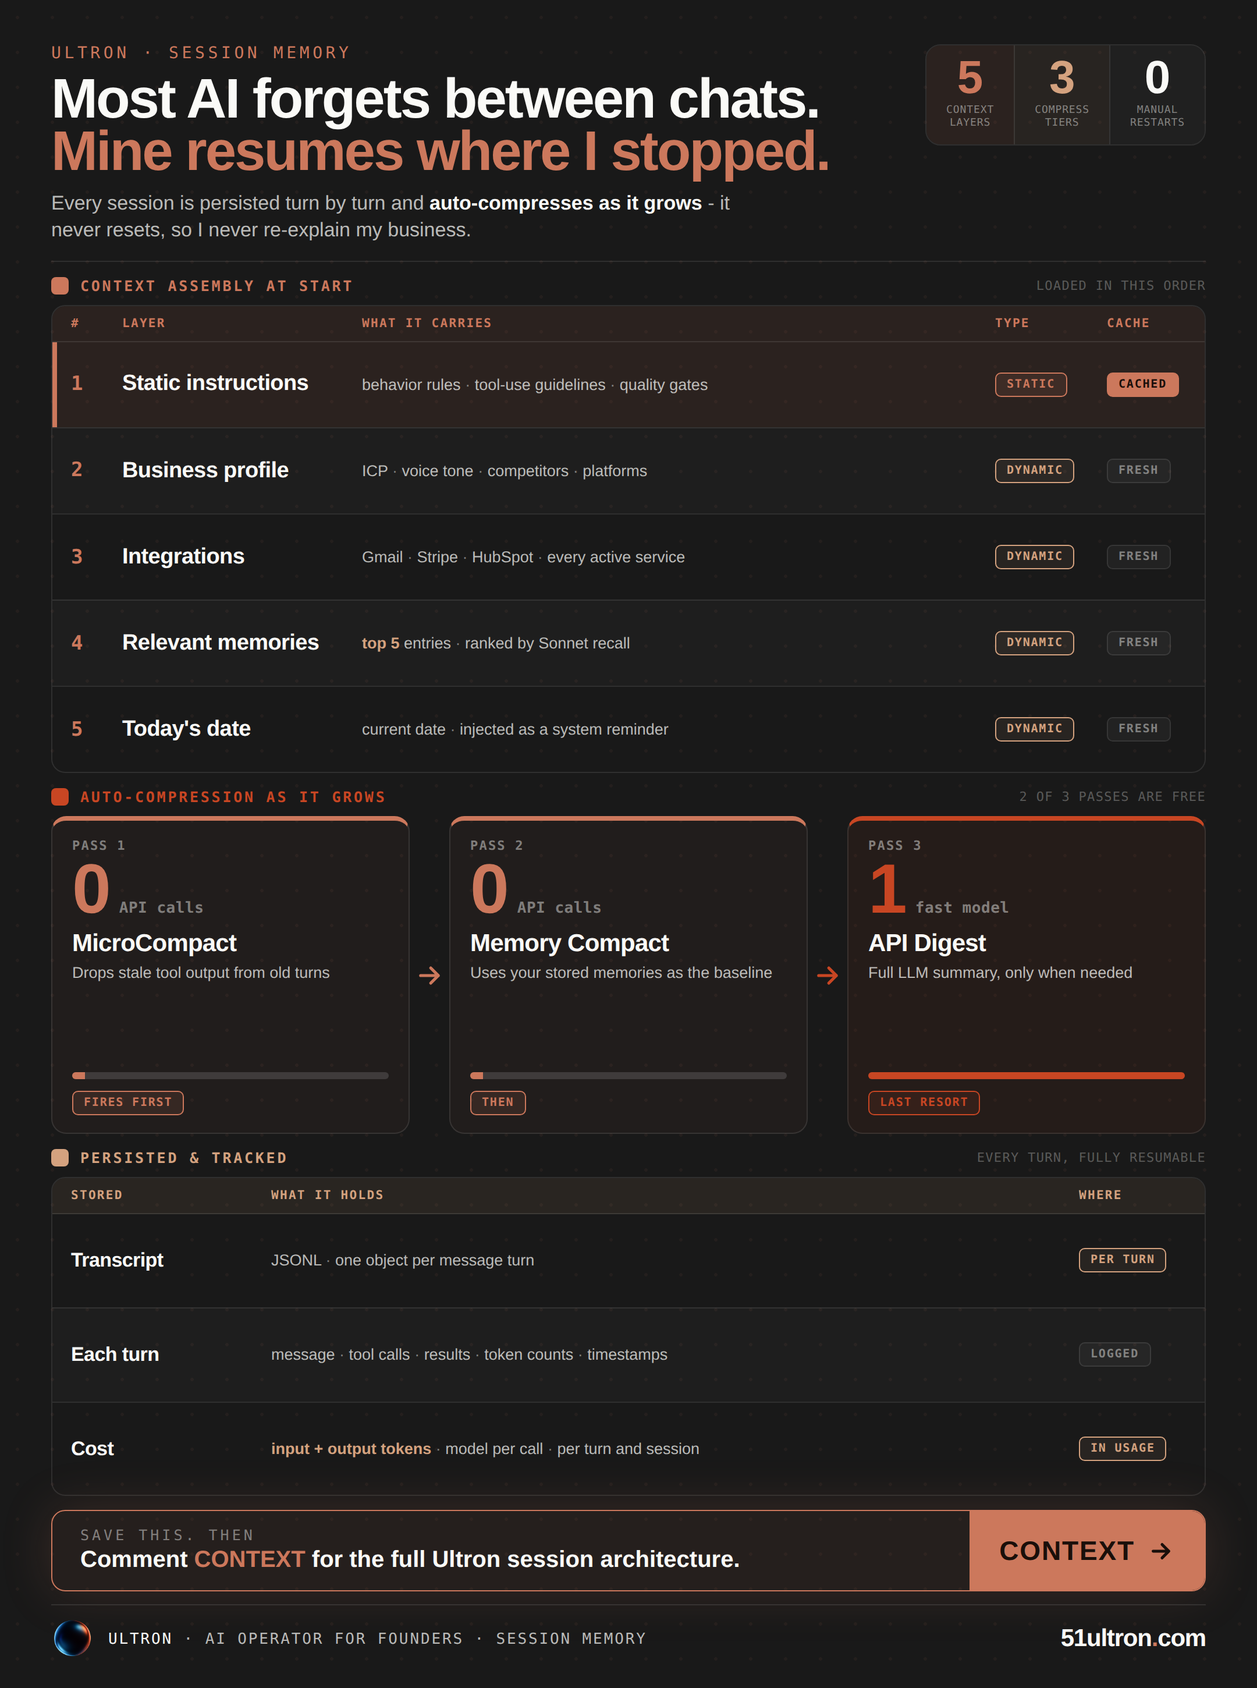
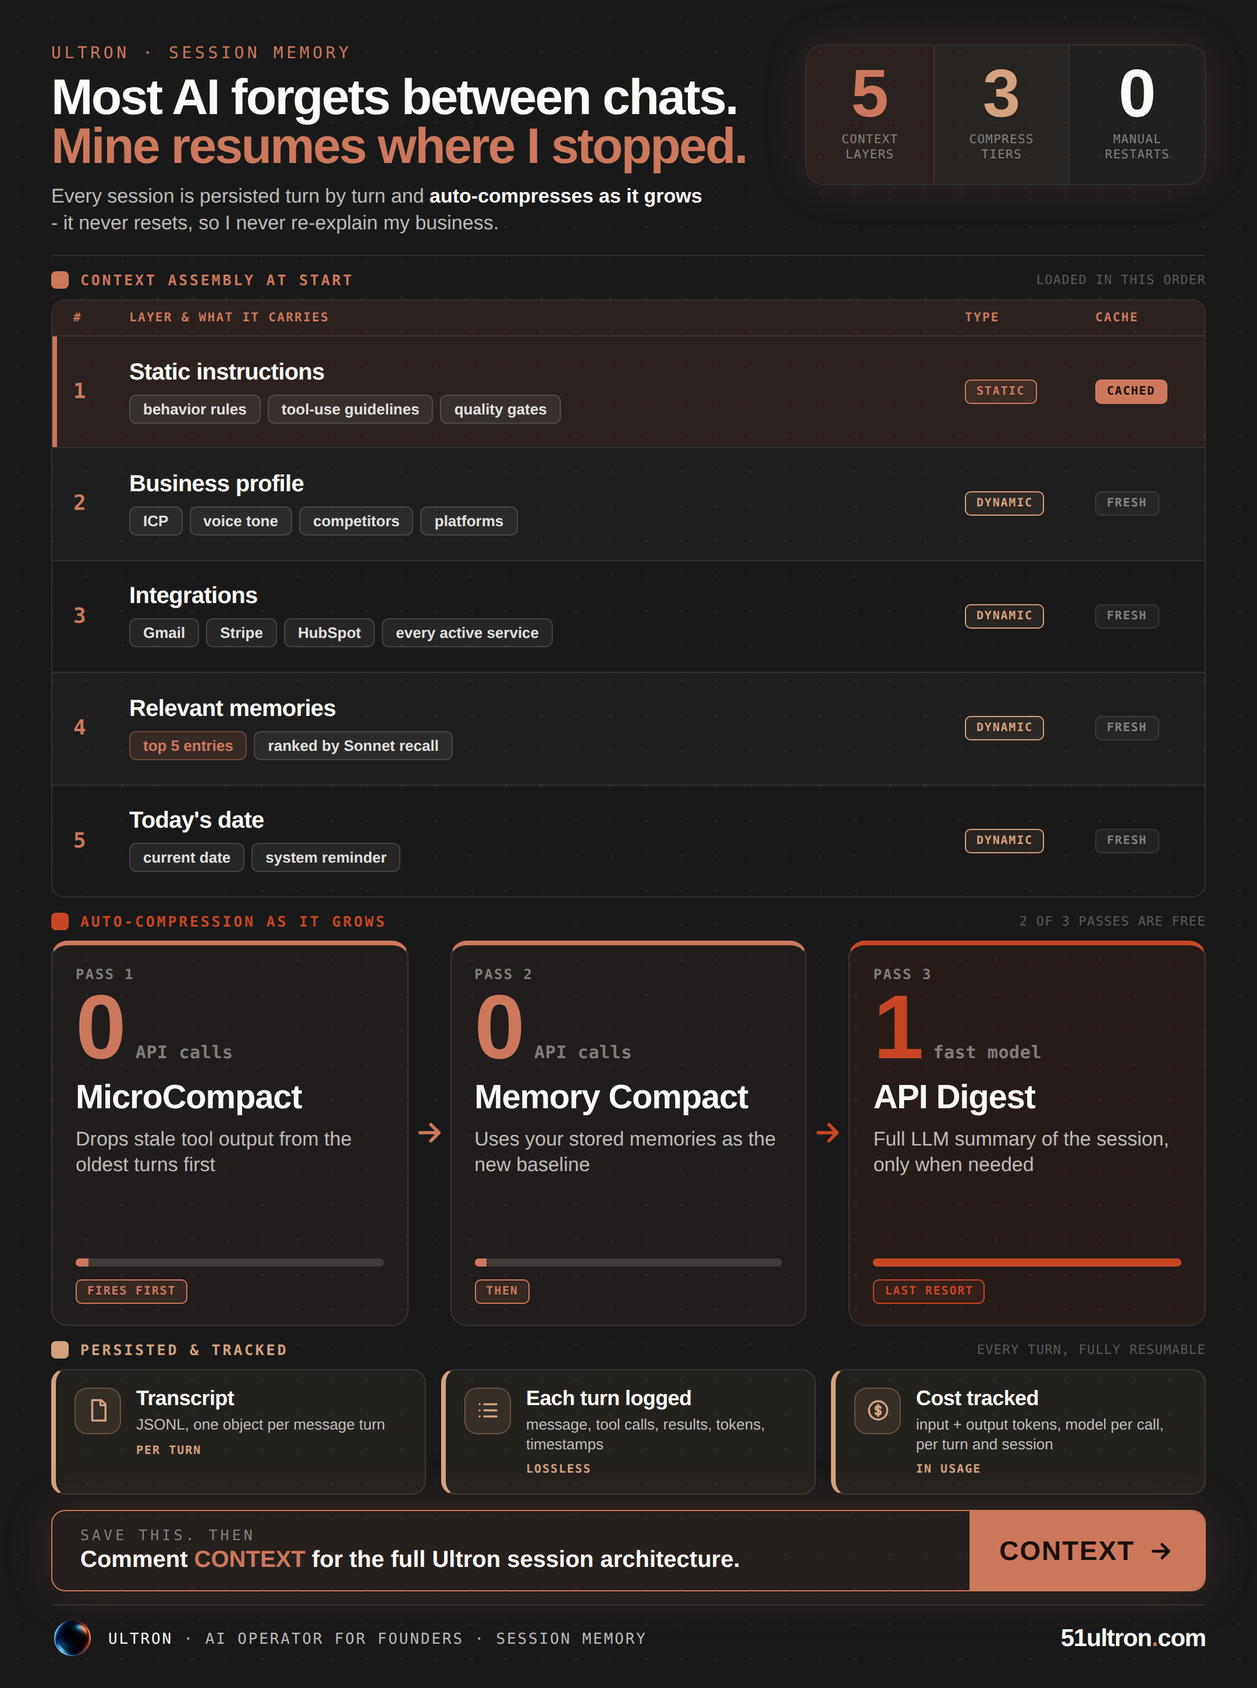
content: docs-10 LinkedIn - enlarge stat tile, carry as chips, bigger pipeline text, restyle table 3
Per feedback: top-right stat tile enlarged; 'what it carries' is now prominent
payload chips under each layer name (the column reads, not a footnote); the
compression cards use larger type (engine 29px, desc 17px, number 78px) to fill
the body; persistence is restyled as kraft icon-led cards, a different format
from the context table. Hook set to two clean lines.

diff --git a/content/docs-10-sessions-linkedin.html b/content/docs-10-sessions-linkedin.html
@@ -6,15 +6,15 @@ body{background:#0d0d0d;display:flex;justify-content:center;padding:24px 0;font-
 .frame::before{content:'';position:absolute;inset:0;pointer-events:none;z-index:0;background-image:radial-gradient(rgba(204,120,92,.06) 1.4px,transparent 1.5px);background-size:30px 30px;}
 .atm{position:absolute;inset:0;pointer-events:none;z-index:1;background:radial-gradient(ellipse 54% 24% at 90% -2%,rgba(204,120,92,.22) 0%,transparent 60%),radial-gradient(ellipse 48% 26% at 2% 102%,rgba(212,162,127,.12) 0%,transparent 60%);}
 .frame>*{position:relative;z-index:2;}
-.hero{flex-shrink:0;display:flex;align-items:flex-start;justify-content:space-between;gap:22px;padding-bottom:14px;border-bottom:1px solid var(--rule);}
+.hero{flex-shrink:0;display:flex;align-items:flex-start;justify-content:space-between;gap:22px;padding-bottom:15px;border-bottom:1px solid var(--rule);}
 .eye{font-family:'DM Mono',monospace;font-size:14px;font-weight:500;letter-spacing:.2em;text-transform:uppercase;color:var(--book);margin-bottom:9px;}
-.hook{font-weight:900;font-size:48px;line-height:.94;letter-spacing:-1.5px;color:var(--ivory);}.hook em{color:var(--book);font-style:normal;}
-.sub{margin-top:11px;font-size:17px;font-weight:500;line-height:1.34;color:var(--ink70);max-width:600px;}.sub b{color:var(--ivory);font-weight:700;}
-.statile{flex-shrink:0;display:flex;border:1px solid var(--rule);border-radius:13px;overflow:hidden;}
-.st{padding:13px 17px 12px;text-align:center;position:relative;}.st+.st{border-left:1px solid var(--rule);}
-.st .sn{font-weight:900;font-size:40px;line-height:.78;}.st.a .sn{color:var(--book);}.st.b .sn{color:var(--kraft);}.st.c .sn{color:var(--ivory);}
+.hook{font-weight:900;font-size:43px;line-height:.98;letter-spacing:-1.4px;color:var(--ivory);}.hook em{color:var(--book);font-style:normal;}
+.sub{margin-top:11px;font-size:17px;font-weight:500;line-height:1.34;color:var(--ink70);max-width:560px;}.sub b{color:var(--ivory);font-weight:700;}
+.statile{flex-shrink:0;display:flex;border:1px solid var(--rule);border-radius:16px;overflow:hidden;box-shadow:0 0 40px rgba(204,120,92,.14);}
+.st{padding:20px 30px 18px;text-align:center;}.st+.st{border-left:1px solid var(--rule);}
+.st .sn{font-weight:900;font-size:58px;line-height:.76;}.st.a .sn{color:var(--book);}.st.b .sn{color:var(--kraft);}.st.c .sn{color:var(--ivory);}
 .st.a{background:rgba(204,120,92,.1);}.st.b{background:rgba(212,162,127,.08);}.st.c{background:rgba(250,250,247,.03);}
-.st .sl{font-family:'DM Mono',monospace;font-size:9px;font-weight:500;letter-spacing:.05em;text-transform:uppercase;color:var(--ink46);margin-top:7px;line-height:1.2;}
+.st .sl{font-family:'DM Mono',monospace;font-size:10.5px;font-weight:500;letter-spacing:.06em;text-transform:uppercase;color:var(--ink46);margin-top:11px;line-height:1.25;}
 .sec{flex-shrink:0;display:flex;align-items:center;gap:10px;margin:13px 0 9px;}
 .sec .sq{width:15px;height:15px;border-radius:4px;flex-shrink:0;}
 .sec .sl{font-family:'DM Mono',monospace;font-size:12.5px;font-weight:600;letter-spacing:.15em;text-transform:uppercase;}
@@ -22,45 +22,52 @@ body{background:#0d0d0d;display:flex;justify-content:center;padding:24px 0;font-
 .sec.s1 .sq{background:var(--book);}.sec.s1 .sl{color:var(--book);}
 .sec.s2 .sq{background:var(--book-d);}.sec.s2 .sl{color:var(--book-d);}
 .sec.s3 .sq{background:var(--kraft);}.sec.s3 .sl{color:var(--kraft);}
-/* ---- table (context + persistence) ---- */
+/* ---- context table: name + prominent carry chips ---- */
 .tbl{display:flex;flex-direction:column;min-height:0;border:1px solid var(--rule);border-radius:12px;overflow:hidden;}
-.tbl.t1{flex:5;}.tbl.t3{flex:3.4;}
-.thead{flex-shrink:0;display:grid;align-items:center;border-bottom:1px solid var(--rule);}
-.t1 .thead{background:rgba(204,120,92,.1);}.t3 .thead{background:rgba(212,162,127,.09);}
-.thead>div{font-family:'DM Mono',monospace;font-size:10.5px;font-weight:600;letter-spacing:.11em;text-transform:uppercase;padding:9px 16px;white-space:nowrap;}
-.t1 .thead>div{color:var(--book);}.t3 .thead>div{color:var(--kraft);}
+.tbl.t1{flex:1.55;}
+.thead{flex-shrink:0;display:grid;align-items:center;background:rgba(204,120,92,.1);border-bottom:1px solid var(--rule);}
+.thead>div{font-family:'DM Mono',monospace;font-size:10.5px;font-weight:600;letter-spacing:.11em;text-transform:uppercase;padding:9px 18px;white-space:nowrap;color:var(--book);}
 .trow{flex:1;min-height:0;display:grid;align-items:center;}
 .trow+.trow{border-top:1px solid var(--rule);}
 .trow:nth-child(odd){background:rgba(250,250,247,.022);}
 .trow.hi{background:rgba(204,120,92,.1);box-shadow:inset 4px 0 0 var(--book);}
-.trow>div{padding:8px 16px;min-width:0;}
-.t1 .thead,.t1 .trow{grid-template-columns:44px 206px 1fr 96px 100px;}
-.t3 .thead,.t3 .trow{grid-template-columns:172px 1fr 124px;}
-.c-n{font-family:'DM Mono',monospace;font-weight:700;color:var(--book);font-size:17px;}
-.c-name{font-weight:800;font-size:19px;color:var(--ivory);letter-spacing:-.3px;line-height:1.04;}
-.c-carry{font-size:13.5px;color:var(--ink70);line-height:1.26;}.c-carry b{color:var(--kraft);font-weight:700;}.c-carry i{color:var(--ink46);font-style:normal;}
+.trow>div{padding:10px 18px;min-width:0;}
+.t1 .thead,.t1 .trow{grid-template-columns:48px 1fr 112px 112px;}
+.c-n{font-family:'DM Mono',monospace;font-weight:700;color:var(--book);font-size:18px;}
+.lay{display:flex;flex-direction:column;gap:9px;}
+.lay .nm{font-weight:800;font-size:20px;color:var(--ivory);letter-spacing:-.35px;line-height:1;}
+.lay .chips{display:flex;flex-wrap:wrap;gap:6px;}
+.ch{font-size:13px;font-weight:600;color:rgba(250,250,247,.9);background:rgba(250,250,247,.06);border:1px solid var(--ink14);border-radius:6px;padding:5px 11px;line-height:1;}
+.ch.k{color:var(--book);background:rgba(204,120,92,.14);border-color:rgba(204,120,92,.36);font-weight:800;}
 .tag2{font-family:'DM Mono',monospace;font-size:10px;font-weight:600;letter-spacing:.09em;text-transform:uppercase;padding:4px 9px;border-radius:5px;display:inline-block;white-space:nowrap;}
 .tg-stat{color:var(--book);border:1px solid var(--book);background:rgba(204,120,92,.12);}
 .tg-dyn{color:var(--kraft);border:1px solid var(--kraft);background:rgba(212,162,127,.08);}
 .tg-cache{color:#1a0f0a;background:var(--book);border:1px solid var(--book);}
 .tg-fresh{color:var(--ink46);border:1px solid var(--rule);background:rgba(250,250,247,.04);}
-.tg-k{color:var(--kraft);border:1px solid var(--kraft);background:rgba(212,162,127,.08);}
-/* ---- pipeline (compression) ---- */
-.pipe{flex:3.4;min-height:0;display:grid;grid-template-columns:1fr 34px 1fr 34px 1fr;align-items:stretch;gap:0;}
-.stg{display:flex;flex-direction:column;border:1px solid var(--rule);border-top:4px solid var(--book);border-radius:13px;padding:15px 17px;background:rgba(204,120,92,.05);}
+/* ---- compression pipeline: big text fills the body ---- */
+.pipe{flex:1;min-height:0;display:grid;grid-template-columns:1fr 36px 1fr 36px 1fr;align-items:stretch;}
+.stg{display:flex;flex-direction:column;border:1px solid var(--rule);border-top:4px solid var(--book);border-radius:14px;padding:18px 20px;background:rgba(204,120,92,.05);}
 .stg.cost{border-top-color:var(--book-d);background:rgba(200,70,35,.07);}
-.stg .se{font-family:'DM Mono',monospace;font-size:11px;font-weight:600;letter-spacing:.1em;text-transform:uppercase;color:var(--ink46);}
-.stg .snum{font-weight:900;font-size:60px;line-height:.82;color:var(--book);margin:6px 0 0;}.stg.cost .snum{color:var(--book-d);}
-.stg .snum span{font-size:13px;font-family:'DM Mono',monospace;font-weight:600;color:var(--ink46);margin-left:7px;letter-spacing:.02em;}
-.stg .sname{font-weight:800;font-size:21px;letter-spacing:-.4px;color:var(--ivory);margin-top:11px;line-height:1.02;}
-.stg .sd{font-size:13.5px;font-weight:500;color:var(--ink70);line-height:1.3;margin-top:6px;}
+.stg .se{font-family:'DM Mono',monospace;font-size:12px;font-weight:600;letter-spacing:.1em;text-transform:uppercase;color:var(--ink46);}
+.stg .snum{font-weight:900;font-size:78px;line-height:.78;color:var(--book);margin:8px 0 0;}.stg.cost .snum{color:var(--book-d);}
+.stg .snum span{font-size:15px;font-family:'DM Mono',monospace;font-weight:600;color:var(--ink46);margin-left:8px;letter-spacing:.02em;}
+.stg .sname{font-weight:900;font-size:29px;letter-spacing:-.6px;color:var(--ivory);margin-top:16px;line-height:1;}
+.stg .sd{font-size:17px;font-weight:500;color:var(--ink70);line-height:1.32;margin-top:10px;}
 .stg .sw{margin-top:auto;}
-.cbar{height:6px;border-radius:3px;background:var(--ink14);overflow:hidden;margin:11px 0 10px;}.cbar i{display:block;height:100%;background:var(--book);}.stg.cost .cbar i{background:var(--book-d);}
+.cbar{height:7px;border-radius:4px;background:var(--ink14);overflow:hidden;margin:13px 0 11px;}.cbar i{display:block;height:100%;background:var(--book);}.stg.cost .cbar i{background:var(--book-d);}
 .parrow{display:flex;align-items:center;justify-content:center;}
-.parrow svg{width:26px;height:26px;stroke:var(--book);stroke-width:2.4;fill:none;stroke-linecap:round;stroke-linejoin:round;}
+.parrow svg{width:28px;height:28px;stroke:var(--book);stroke-width:2.4;fill:none;stroke-linecap:round;stroke-linejoin:round;}
 .parrow.last svg{stroke:var(--book-d);}
-/* ---- cta + footer ---- */
-.cta{flex-shrink:0;margin-top:12px;display:flex;align-items:stretch;border:1px solid var(--book);border-radius:12px;overflow:hidden;box-shadow:0 0 44px rgba(204,120,92,.18);}
+/* ---- persistence: kraft icon-led cards (distinct from the table) ---- */
+.kcards{flex-shrink:0;display:grid;grid-template-columns:repeat(3,1fr);gap:13px;}
+.kc{display:flex;align-items:flex-start;gap:13px;background:rgba(212,162,127,.06);border:1px solid var(--rule);border-left:4px solid var(--kraft);border-radius:12px;padding:15px 16px;}
+.kc .ic{width:40px;height:40px;border-radius:11px;background:rgba(212,162,127,.1);border:1px solid rgba(212,162,127,.32);flex-shrink:0;display:flex;align-items:center;justify-content:center;}
+.kc .ic svg{width:21px;height:21px;stroke:var(--kraft);stroke-width:2;fill:none;stroke-linecap:round;stroke-linejoin:round;}
+.kc .cc{min-width:0;}
+.kc .cc b{display:block;font-size:18px;font-weight:800;color:var(--ivory);letter-spacing:-.3px;line-height:1.05;}
+.kc .cc span{display:block;font-size:13px;color:var(--ink70);line-height:1.3;margin-top:5px;}
+.kc .cc em{display:block;font-style:normal;font-family:'DM Mono',monospace;font-size:10px;font-weight:600;letter-spacing:.1em;text-transform:uppercase;color:var(--kraft);margin-top:8px;}
+.cta{flex-shrink:0;margin-top:13px;display:flex;align-items:stretch;border:1px solid var(--book);border-radius:12px;overflow:hidden;box-shadow:0 0 44px rgba(204,120,92,.18);}
 .cta-l{flex:1;padding:13px 24px;display:flex;flex-direction:column;justify-content:center;gap:3px;background:rgba(204,120,92,.07);}
 .cta-k{font-family:'DM Mono',monospace;font-size:12.5px;font-weight:500;letter-spacing:.2em;text-transform:uppercase;color:var(--ink46);}
 .cta-t{font-size:20px;font-weight:700;color:var(--ivory);line-height:1.18;}.cta-t b{color:var(--book);font-weight:900;}
@@ -71,31 +78,30 @@ body{background:#0d0d0d;display:flex;justify-content:center;padding:24px 0;font-
 .ftx{font-family:'DM Mono',monospace;font-size:13px;font-weight:400;letter-spacing:.11em;text-transform:uppercase;color:var(--ink70);}.ftx b{color:var(--ivory);font-weight:500;}
 .furl{font-weight:900;font-size:21px;letter-spacing:-.6px;color:var(--ivory);}.furl em{color:var(--book);font-style:normal;}
 </style></head><body><div class="frame" id="artifact"><div class="atm"></div>
-<div class="hero"><div><div class="eye">Ultron &middot; Session Memory</div><div class="hook">Most AI forgets between chats. <em>Mine resumes where I stopped.</em></div><div class="sub">Every session is persisted turn by turn and <b>auto-compresses as it grows</b> - it never resets, so I never re-explain my business.</div></div>
+<div class="hero"><div><div class="eye">Ultron &middot; Session Memory</div><div class="hook">Most AI forgets between chats.<br><em>Mine resumes where I stopped.</em></div><div class="sub">Every session is persisted turn by turn and <b>auto-compresses as it grows</b> - it never resets, so I never re-explain my business.</div></div>
 <div class="statile"><div class="st a"><div class="sn">5</div><div class="sl">context<br>layers</div></div><div class="st b"><div class="sn">3</div><div class="sl">compress<br>tiers</div></div><div class="st c"><div class="sn">0</div><div class="sl">manual<br>restarts</div></div></div></div>
 <div class="sec s1"><span class="sq"></span><span class="sl">Context assembly at start</span><span class="sx">loaded in this order</span></div>
 <div class="tbl t1">
-<div class="thead"><div>#</div><div>Layer</div><div>What it carries</div><div>Type</div><div>Cache</div></div>
-<div class="trow hi"><div class="c-n">1</div><div class="c-name">Static instructions</div><div class="c-carry">behavior rules <i>&middot;</i> tool-use guidelines <i>&middot;</i> quality gates</div><div><span class="tag2 tg-stat">Static</span></div><div><span class="tag2 tg-cache">Cached</span></div></div>
-<div class="trow"><div class="c-n">2</div><div class="c-name">Business profile</div><div class="c-carry">ICP <i>&middot;</i> voice tone <i>&middot;</i> competitors <i>&middot;</i> platforms</div><div><span class="tag2 tg-dyn">Dynamic</span></div><div><span class="tag2 tg-fresh">Fresh</span></div></div>
-<div class="trow"><div class="c-n">3</div><div class="c-name">Integrations</div><div class="c-carry">Gmail <i>&middot;</i> Stripe <i>&middot;</i> HubSpot <i>&middot;</i> every active service</div><div><span class="tag2 tg-dyn">Dynamic</span></div><div><span class="tag2 tg-fresh">Fresh</span></div></div>
-<div class="trow"><div class="c-n">4</div><div class="c-name">Relevant memories</div><div class="c-carry"><b>top 5</b> entries <i>&middot;</i> ranked by Sonnet recall</div><div><span class="tag2 tg-dyn">Dynamic</span></div><div><span class="tag2 tg-fresh">Fresh</span></div></div>
-<div class="trow"><div class="c-n">5</div><div class="c-name">Today's date</div><div class="c-carry">current date <i>&middot;</i> injected as a system reminder</div><div><span class="tag2 tg-dyn">Dynamic</span></div><div><span class="tag2 tg-fresh">Fresh</span></div></div>
+<div class="thead"><div>#</div><div>Layer &amp; what it carries</div><div>Type</div><div>Cache</div></div>
+<div class="trow hi"><div class="c-n">1</div><div class="lay"><div class="nm">Static instructions</div><div class="chips"><span class="ch">behavior rules</span><span class="ch">tool-use guidelines</span><span class="ch">quality gates</span></div></div><div><span class="tag2 tg-stat">Static</span></div><div><span class="tag2 tg-cache">Cached</span></div></div>
+<div class="trow"><div class="c-n">2</div><div class="lay"><div class="nm">Business profile</div><div class="chips"><span class="ch">ICP</span><span class="ch">voice tone</span><span class="ch">competitors</span><span class="ch">platforms</span></div></div><div><span class="tag2 tg-dyn">Dynamic</span></div><div><span class="tag2 tg-fresh">Fresh</span></div></div>
+<div class="trow"><div class="c-n">3</div><div class="lay"><div class="nm">Integrations</div><div class="chips"><span class="ch">Gmail</span><span class="ch">Stripe</span><span class="ch">HubSpot</span><span class="ch">every active service</span></div></div><div><span class="tag2 tg-dyn">Dynamic</span></div><div><span class="tag2 tg-fresh">Fresh</span></div></div>
+<div class="trow"><div class="c-n">4</div><div class="lay"><div class="nm">Relevant memories</div><div class="chips"><span class="ch k">top 5 entries</span><span class="ch">ranked by Sonnet recall</span></div></div><div><span class="tag2 tg-dyn">Dynamic</span></div><div><span class="tag2 tg-fresh">Fresh</span></div></div>
+<div class="trow"><div class="c-n">5</div><div class="lay"><div class="nm">Today's date</div><div class="chips"><span class="ch">current date</span><span class="ch">system reminder</span></div></div><div><span class="tag2 tg-dyn">Dynamic</span></div><div><span class="tag2 tg-fresh">Fresh</span></div></div>
 </div>
 <div class="sec s2"><span class="sq"></span><span class="sl">Auto-compression as it grows</span><span class="sx">2 of 3 passes are free</span></div>
 <div class="pipe">
-<div class="stg"><div class="se">Pass 1</div><div class="snum">0<span>API calls</span></div><div class="sname">MicroCompact</div><div class="sd">Drops stale tool output from old turns</div><div class="sw"><div class="cbar"><i style="width:4%"></i></div><span class="tag2 tg-stat">Fires first</span></div></div>
+<div class="stg"><div class="se">Pass 1</div><div class="snum">0<span>API calls</span></div><div class="sname">MicroCompact</div><div class="sd">Drops stale tool output from the oldest turns first</div><div class="sw"><div class="cbar"><i style="width:4%"></i></div><span class="tag2 tg-stat">Fires first</span></div></div>
 <div class="parrow"><svg viewBox="0 0 24 24"><path d="M5 12h14M13 6l6 6-6 6"/></svg></div>
-<div class="stg"><div class="se">Pass 2</div><div class="snum">0<span>API calls</span></div><div class="sname">Memory Compact</div><div class="sd">Uses your stored memories as the baseline</div><div class="sw"><div class="cbar"><i style="width:4%"></i></div><span class="tag2 tg-stat">Then</span></div></div>
+<div class="stg"><div class="se">Pass 2</div><div class="snum">0<span>API calls</span></div><div class="sname">Memory Compact</div><div class="sd">Uses your stored memories as the new baseline</div><div class="sw"><div class="cbar"><i style="width:4%"></i></div><span class="tag2 tg-stat">Then</span></div></div>
 <div class="parrow last"><svg viewBox="0 0 24 24"><path d="M5 12h14M13 6l6 6-6 6"/></svg></div>
-<div class="stg cost"><div class="se">Pass 3</div><div class="snum">1<span>fast model</span></div><div class="sname">API Digest</div><div class="sd">Full LLM summary, only when needed</div><div class="sw"><div class="cbar"><i style="width:100%"></i></div><span class="tag2" style="color:var(--book-d);border:1px solid var(--book-d);background:rgba(200,70,35,.1)">Last resort</span></div></div>
+<div class="stg cost"><div class="se">Pass 3</div><div class="snum">1<span>fast model</span></div><div class="sname">API Digest</div><div class="sd">Full LLM summary of the session, only when needed</div><div class="sw"><div class="cbar"><i style="width:100%"></i></div><span class="tag2" style="color:var(--book-d);border:1px solid var(--book-d);background:rgba(200,70,35,.1)">Last resort</span></div></div>
 </div>
 <div class="sec s3"><span class="sq"></span><span class="sl">Persisted &amp; tracked</span><span class="sx">every turn, fully resumable</span></div>
-<div class="tbl t3">
-<div class="thead"><div>Stored</div><div>What it holds</div><div>Where</div></div>
-<div class="trow"><div class="c-name" style="font-size:17px">Transcript</div><div class="c-carry">JSONL <i>&middot;</i> one object per message turn</div><div><span class="tag2 tg-k">per turn</span></div></div>
-<div class="trow"><div class="c-name" style="font-size:17px">Each turn</div><div class="c-carry">message <i>&middot;</i> tool calls <i>&middot;</i> results <i>&middot;</i> token counts <i>&middot;</i> timestamps</div><div><span class="tag2 tg-fresh">logged</span></div></div>
-<div class="trow"><div class="c-name" style="font-size:17px">Cost</div><div class="c-carry"><b>input + output tokens</b> <i>&middot;</i> model per call <i>&middot;</i> per turn and session</div><div><span class="tag2 tg-k">in Usage</span></div></div>
+<div class="kcards">
+<div class="kc"><span class="ic"><svg viewBox="0 0 24 24"><path d="M6 2h9l4 4v16H6z"/><path d="M14 2v5h5"/></svg></span><div class="cc"><b>Transcript</b><span>JSONL, one object per message turn</span><em>per turn</em></div></div>
+<div class="kc"><span class="ic"><svg viewBox="0 0 24 24"><path d="M8 6h12M8 12h12M8 18h12M3.5 6h.01M3.5 12h.01M3.5 18h.01"/></svg></span><div class="cc"><b>Each turn logged</b><span>message, tool calls, results, tokens, timestamps</span><em>lossless</em></div></div>
+<div class="kc"><span class="ic"><svg viewBox="0 0 24 24"><circle cx="12" cy="12" r="9"/><path d="M14.5 9.5a2.5 2 0 0 0-2.5-1.5c-1.5 0-2.5.8-2.5 2s1 1.8 2.5 2 2.5.8 2.5 2-1 2-2.5 2a2.5 2 0 0 1-2.5-1.5M12 6.5v11"/></svg></span><div class="cc"><b>Cost tracked</b><span>input + output tokens, model per call, per turn and session</span><em>in Usage</em></div></div>
 </div>
 <div class="cta"><div class="cta-l"><div class="cta-k">Save this. Then</div><div class="cta-t">Comment <b>CONTEXT</b> for the full Ultron session architecture.</div></div><div class="cta-chip">CONTEXT <svg viewBox="0 0 24 24"><path d="M5 12h14M13 6l6 6-6 6"/></svg></div></div>
 <div class="ftr"><div class="fl"><img class="flogo" src="__LOGO_URI__" alt="Ultron"><div class="ftx"><b>ULTRON</b> &middot; AI OPERATOR FOR FOUNDERS &middot; SESSION MEMORY</div></div><div class="furl">51ultron<em>.</em>com</div></div>
